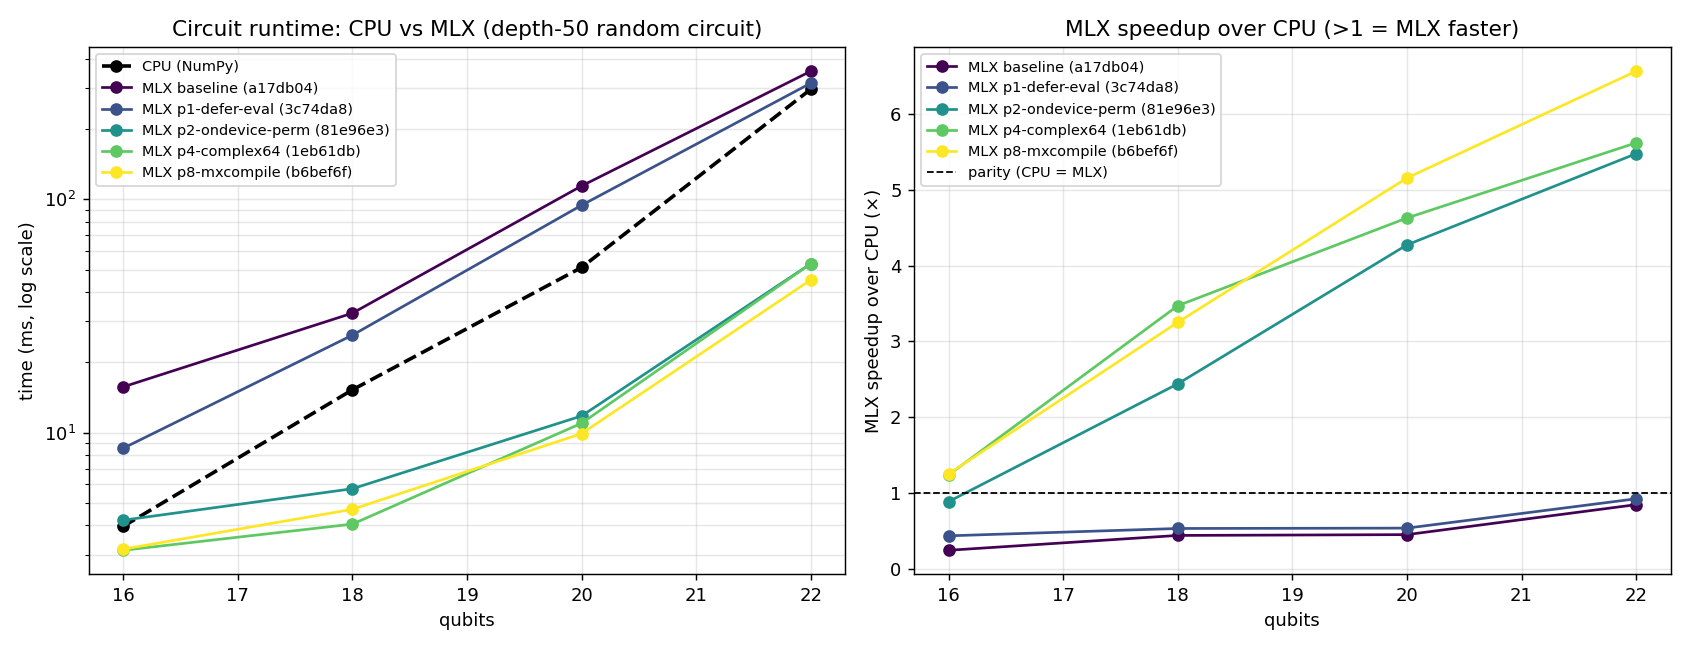
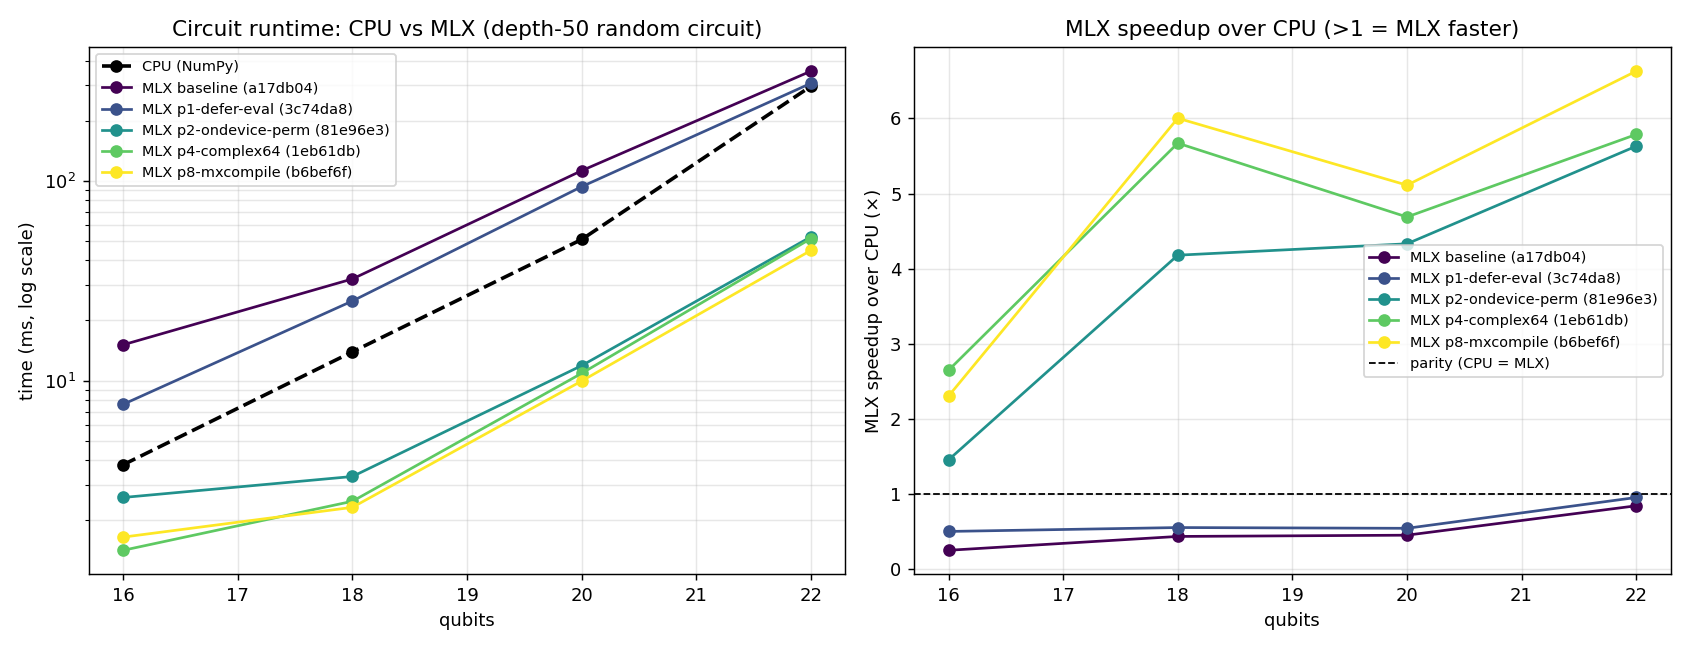
Re-measure benchmarks at reps=9 and document P4 large-n noise
The reps=3 data made complex64 (P4) look ~0.85x slower than SoA at 20-22q, but
that gap is below the benchmark's noise floor: a single config's 22q time swings
~10-15% across process launches (GPU clock/thermal). Re-measure every recorded
run at reps=9 (each against its own commit's backend) and regenerate
benchmark-2.png.

Add a note under P4 in docs/plan.md explaining why complex64 can appear slower
at large n with low reps: the workload is bandwidth-bound and a complex64
amplitude is exactly two float32, so both layouts move identical bytes per gate
-> parity in theory; the real complex64 win only shows on dense/fused circuits
(bench_circuits), which bench_backends does not exercise. Sync the data README
table to the reps=9 numbers.

diff --git a/benchmarks/data/README.md b/benchmarks/data/README.md
@@ -1,8 +1,9 @@
 # Benchmark data
 
 Per-commit results from `tests/benchmarks/bench_backends.py` (CPU vs MLX, depth-50
-random circuit, qubits 16/18/20/22, reps 3), plus the comparison plot rendered by
-`benchmarks/plot_results.py`.
+random circuit, qubits 16/18/20/22, reps 9), plus the comparison plot rendered by
+`benchmarks/plot_results.py`. Each file was (re)measured against its own commit's
+backend code using the current harness.
 
 Files are named `<commit>-<label>.json` so each run is traceable to the code that
 produced it. The optimizations correspond to the **MLX backend performance
@@ -29,19 +30,25 @@ across all five recorded runs (log-scale runtime + speedup over CPU).
 
 ## Results summary
 
-MLX runtime (ms) on the depth-50 random circuit, baseline → latest (P4):
+MLX runtime (ms) on the depth-50 random circuit, baseline → latest (P4), reps 9:
 
 | qubits | CPU | MLX baseline | MLX P2 | MLX P4 | P4 vs CPU |
 |---|---|---|---|---|---|
-| 16 | 3.9 | 15.7 | 4.2 | 3.1 | 1.24× |
-| 18 | 14.1 | 32.5 | 5.7 | 4.1 | **3.5× faster** |
-| 20 | 50.8 | 114.1 | 11.8 | 11.0 | **4.6× faster** |
-| 22 | 297.7 | 354.2 | 53.0 | 53.0 | **5.6× faster** |
+| 16 | 3.7 | 15.1 | 2.6 | 1.4 | **2.6× faster** |
+| 18 | 14.1 | 32.3 | 3.3 | 2.5 | **5.6× faster** |
+| 20 | 50.9 | 112.3 | 11.9 | 10.9 | **4.7× faster** |
+| 22 | 297.0 | 353.6 | 52.4 | 51.3 | **5.8× faster** |
 
 P1 + P2 flipped MLX from slower-than-CPU everywhere to faster; P3/P7/P8/P4 added
-incremental gains and simplification. MLX is now **up to 5.6× faster** at 22
-qubits and wins from 18q up. CPU still wins at ≤16 qubits (dispatch-bound
-regime), which is why `auto` routes ≤16q to CPU (P7).
+incremental gains and simplification. MLX is now **up to ~5.8× faster** at 22
+qubits and wins across this range.
+
+At large n (20–22q) the P8 (SoA) and P4 (complex64) MLX lines sit within the
+benchmark's run-to-run noise floor (~10–15% from GPU clock/thermal variance):
+the workload is memory-bandwidth-bound and a complex64 amplitude is exactly two
+float32, so both layouts move identical bytes per gate. See the P4 note in
+[`docs/plan.md`](../../docs/plan.md) for why low-reps runs can make complex64
+*look* slower there. Use higher reps (9+) for stable large-n numbers.
 
 ## Reproducing
 

diff --git a/docs/plan.md b/docs/plan.md
@@ -318,6 +318,22 @@ that widen the gap well beyond the floor.
   1.08×). **This refutes the spec's "SoA up to 6.9× over interleaved" claim on MLX 0.31** —
   the layouts are equivalent here, and complex64 is simpler (one array, one tensordot, no
   custom kernel). Targets cause (4).
+
+  > **Note — why complex64 can *look* slower at large n with low reps.** Recorded
+  > runs use `--reps 3` and report the min of 3. At 20–22 qubits the random circuit
+  > is **memory-bandwidth-bound**, and a complex64 amplitude is 8 bytes = exactly two
+  > float32 (the SoA `real`+`imag`), so **both layouts move identical bytes per gate** —
+  > theory predicts parity, and the workload has essentially no dense multi-qubit gates,
+  > so complex64's one-tensordot-vs-four advantage never triggers. The genuine
+  > SoA↔complex64 difference at large n is therefore **below the benchmark's noise
+  > floor**: GPU clock/thermal variance across process launches swings a *single*
+  > configuration's 22q time by ~10–15% (one SoA run measured 44.8 ms, another 51.4 ms).
+  > With only 3 samples the min can land on a lucky-fast SoA run and an ordinary
+  > complex64 run, making complex64 look ~0.85×; a different pair of runs reverses it.
+  > Higher reps (9+) and interleaved measurement (both backends in one process, sharing
+  > thermal state) collapse the gap to parity. The large-n dip in the committed plots is
+  > measurement noise, not a real regression; complex64's real win is on dense/fused
+  > circuits (`bench_circuits`), which `bench_backends` does not exercise.
 - **Step P5 — Avoid the full transpose copy via einsum (medium impact). ❌ TRIED & REVERTED
   (`b4b0171` → `50d3d54`).** Replaced `tensordot`+`transpose` in `_dense_apply` with a single
   canonical-order `einsum`. A/B on `bench_circuits` @18q showed einsum **slower** on every